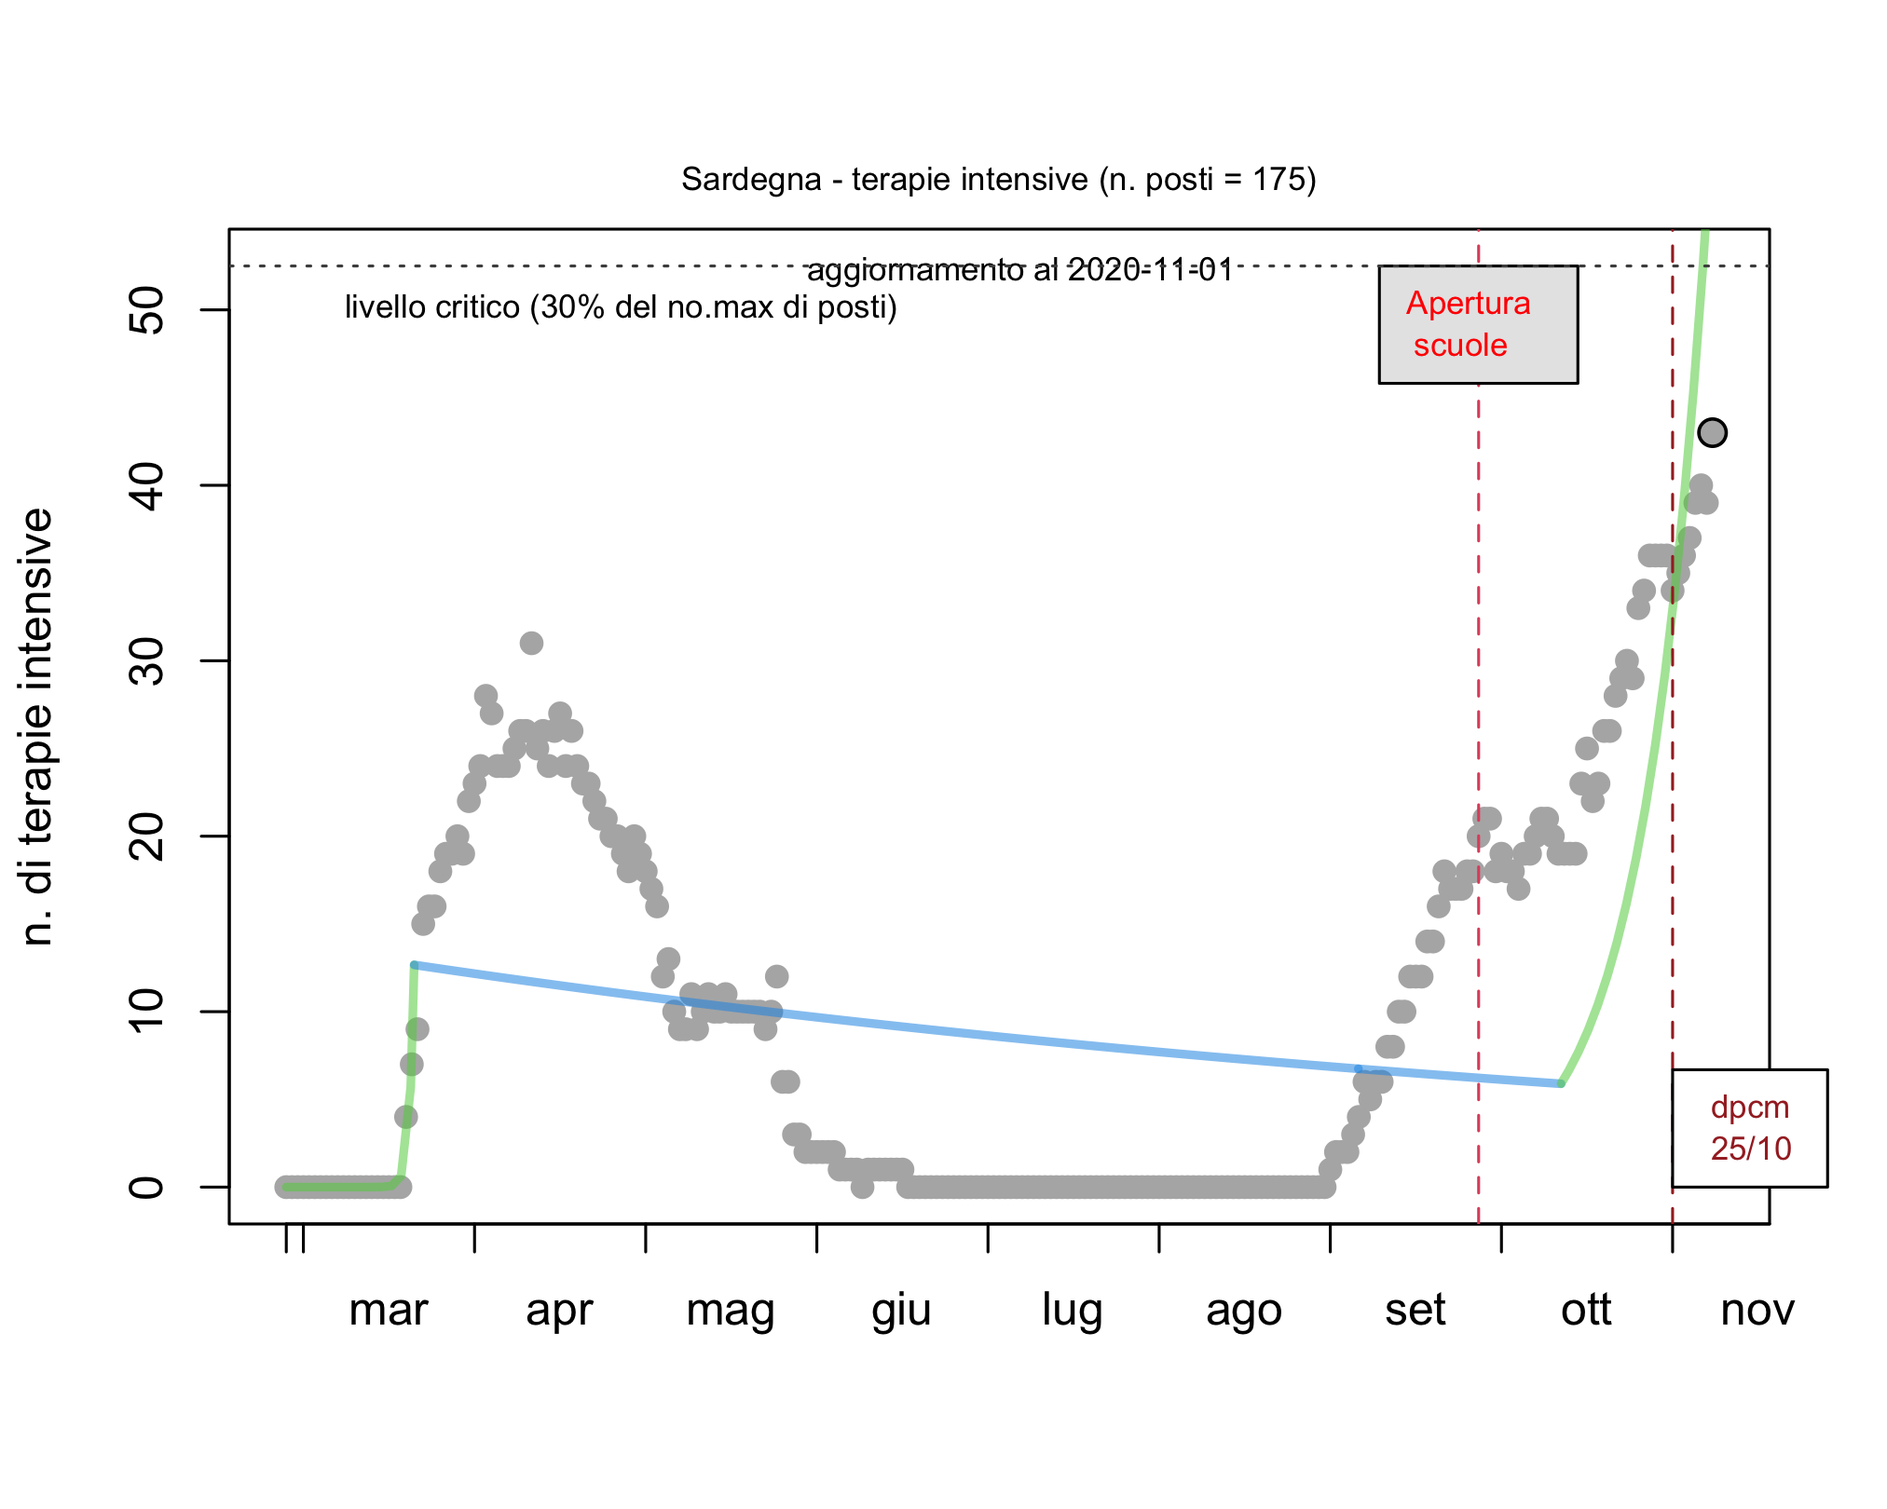
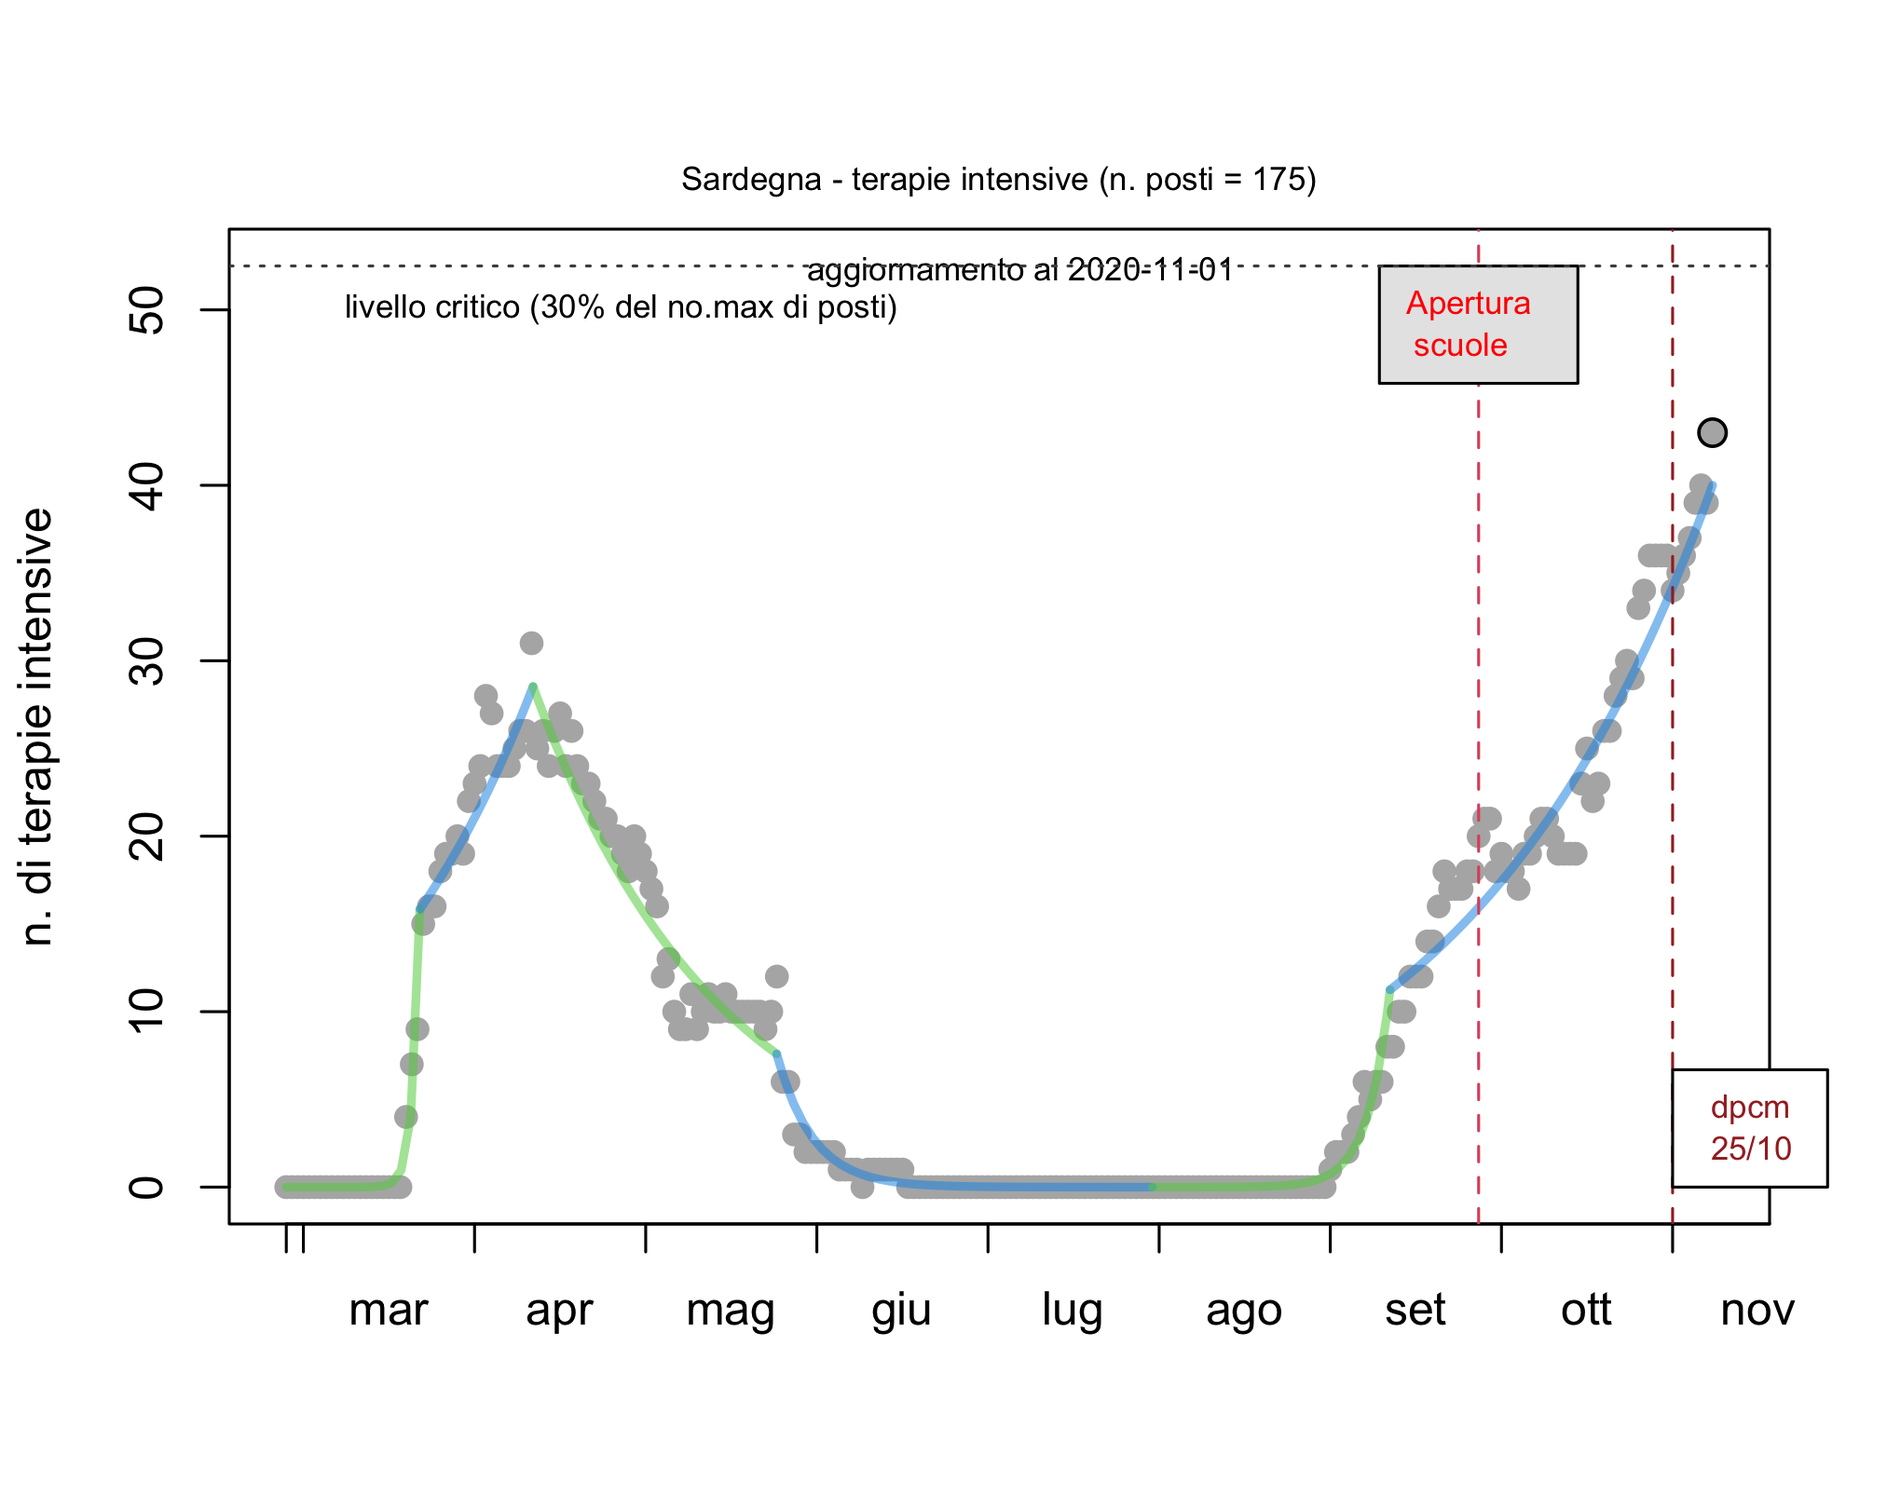
Add files via upload

diff --git a/sardegna_terapie_intensive.html b/sardegna_terapie_intensive.html
@@ -9,7 +9,10 @@
       <tr><th colspan="5" style="background-color:#11b6c2">Terapie intensive</th></tr>
       <tr><th rowspan="2" style="background-color:#11b6c2">Periodo</th><th colspan="2">Tasso % di crescita</th><th colspan="2" style="width: 35%; background-color:#11c25b" >Giorni di raddoppio (+) o dimezzamento (-)</th></tr>
       <tr><th>Stima</th><th>IC (95%)</th><th style="background-color:#11c25b">Stima</th><th style="background-color:#11c25b">IC (95%)</th></tr>
-<tr><td style="border-right: 4px solid #f0f0f0">dal 25/02 al 18/03*</td><td align='center'>269,7</td><td align='center'>[58,8; 760,9]</td><td align='center' style="border-left: 4px solid #f0f0f0">0,5</td><td align='center'>[0,3; 1,5]</td></tr>
-<tr><td style="border-right: 4px solid #f0f0f0">dal 18/03* al 05/10*</td><td align='center'>-0,4</td><td align='center'>[-0,5; -0,3]</td><td align='center' style="border-left: 4px solid #f0f0f0">-182,0</td><td align='center'>[-225,3; -152,6]</td></tr>
-<tr><td style="border-right: 4px solid #f0f0f0">dal 05/10* al 01/11</td><td align='center'>9,2</td><td align='center'>[8,6; 9,8]</td><td align='center' style="border-left: 4px solid #f0f0f0">7,9</td><td align='center'>[7,4; 8,4]</td></tr>
+<tr><td style="border-right: 4px solid #f0f0f0">dal 25/02 al 19/03*</td><td align='center'>133,9</td><td align='center'>[76,8; 209,4]</td><td align='center' style="border-left: 4px solid #f0f0f0">0,8</td><td align='center'>[0,6; 1,2]</td></tr>
+<tr><td style="border-right: 4px solid #f0f0f0">dal 19/03* al 08/04*</td><td align='center'>3,0</td><td align='center'>[1,8; 4,2]</td><td align='center' style="border-left: 4px solid #f0f0f0">23,4</td><td align='center'>[16,8; 38,5]</td></tr>
+<tr><td style="border-right: 4px solid #f0f0f0">dal 08/04* al 20/05*</td><td align='center'>-3,0</td><td align='center'>[-3,5; -2,6]</td><td align='center' style="border-left: 4px solid #f0f0f0">-22,4</td><td align='center'>[-26,7; -19,2]</td></tr>
+<tr><td style="border-right: 4px solid #f0f0f0">dal 20/05* al 25/07*</td><td align='center'>-14,6</td><td align='center'>[-16,8; -12,2]</td><td align='center' style="border-left: 4px solid #f0f0f0">-4,4</td><td align='center'>[-5,3; -3,8]</td></tr>
+<tr><td style="border-right: 4px solid #f0f0f0">dal 25/07* al 05/09*</td><td align='center'>29,5</td><td align='center'>[23,7; 35,5]</td><td align='center' style="border-left: 4px solid #f0f0f0">2,7</td><td align='center'>[2,3; 3,3]</td></tr>
+<tr><td style="border-right: 4px solid #f0f0f0">dal 05/09* al 02/11</td><td align='center'>2,3</td><td align='center'>[1,9; 2,6]</td><td align='center' style="border-left: 4px solid #f0f0f0">30,9</td><td align='center'>[26,8; 36,4]</td></tr>
 </table></body></html>

diff --git a/Lazio_terapie_intensive.html b/Lazio_terapie_intensive.html
@@ -16,5 +16,5 @@
 <tr><td style="border-right: 4px solid #f0f0f0">dal 01/05* al 21/06*</td><td align='center'>-1,9</td><td align='center'>[-2,2; -1,7]</td><td align='center' style="border-left: 4px solid #f0f0f0">-35,4</td><td align='center'>[-39,9; -31,8]</td></tr>
 <tr><td style="border-right: 4px solid #f0f0f0">dal 21/06* al 23/06*</td><td align='center'>-35,4</td><td align='center'>[-39,7; -30,8]</td><td align='center' style="border-left: 4px solid #f0f0f0">-1,6</td><td align='center'>[-1,9; -1,4]</td></tr>
 <tr><td style="border-right: 4px solid #f0f0f0">dal 23/06* al 26/08*</td><td align='center'>-1,1</td><td align='center'>[-1,5; -0,7]</td><td align='center' style="border-left: 4px solid #f0f0f0">-61,2</td><td align='center'>[-97,7; -44,6]</td></tr>
-<tr><td style="border-right: 4px solid #f0f0f0">dal 26/08* al 01/11</td><td align='center'>5,3</td><td align='center'>[5,1; 5,5]</td><td align='center' style="border-left: 4px solid #f0f0f0">13,4</td><td align='center'>[12,9; 14,0]</td></tr>
+<tr><td style="border-right: 4px solid #f0f0f0">dal 26/08* al 02/11</td><td align='center'>5,3</td><td align='center'>[5,1; 5,5]</td><td align='center' style="border-left: 4px solid #f0f0f0">13,4</td><td align='center'>[12,9; 14,0]</td></tr>
 </table></body></html>

diff --git a/Lazio_ricoverati.html b/Lazio_ricoverati.html
@@ -17,5 +17,5 @@
 <tr><td style="border-right: 4px solid #f0f0f0">dal 01/06* al 24/06*</td><td align='center'>-4,7</td><td align='center'>[-5,0; -4,5]</td><td align='center' style="border-left: 4px solid #f0f0f0">-14,3</td><td align='center'>[-14,9; -13,7]</td></tr>
 <tr><td style="border-right: 4px solid #f0f0f0">dal 24/06* al 07/08*</td><td align='center'>-0,2</td><td align='center'>[-0,3; -0,1]</td><td align='center' style="border-left: 4px solid #f0f0f0">-287,5</td><td align='center'>[-474,2; -206,3]</td></tr>
 <tr><td style="border-right: 4px solid #f0f0f0">dal 07/08* al 15/10*</td><td align='center'>2,5</td><td align='center'>[2,5; 2,6]</td><td align='center' style="border-left: 4px solid #f0f0f0">27,9</td><td align='center'>[27,3; 28,5]</td></tr>
-<tr><td style="border-right: 4px solid #f0f0f0">dal 15/10* al 01/11</td><td align='center'>4,6</td><td align='center'>[4,3; 4,9]</td><td align='center' style="border-left: 4px solid #f0f0f0">15,4</td><td align='center'>[14,5; 16,3]</td></tr>
+<tr><td style="border-right: 4px solid #f0f0f0">dal 15/10* al 02/11</td><td align='center'>4,6</td><td align='center'>[4,3; 4,9]</td><td align='center' style="border-left: 4px solid #f0f0f0">15,4</td><td align='center'>[14,5; 16,3]</td></tr>
 </table></body></html>

diff --git a/lombardia_nuovi_casi.html b/lombardia_nuovi_casi.html
@@ -14,5 +14,5 @@
 <tr><td style="border-right: 4px solid #f0f0f0">dal 20/03* al 31/07*</td><td align='center'>-2,9</td><td align='center'>[-3,0; -2,9]</td><td align='center' style="border-left: 4px solid #f0f0f0">0,86</td><td align='center'>[0,86; 0,86]</td></tr>
 <tr><td style="border-right: 4px solid #f0f0f0">dal 31/07* al 29/08*</td><td align='center'>6,6</td><td align='center'>[6,4; 6,8]</td><td align='center' style="border-left: 4px solid #f0f0f0">1,32</td><td align='center'>[1,31; 1,33]</td></tr>
 <tr><td style="border-right: 4px solid #f0f0f0">dal 29/08* al 24/09*</td><td align='center'>-1,1</td><td align='center'>[-1,4; -0,8]</td><td align='center' style="border-left: 4px solid #f0f0f0">0,95</td><td align='center'>[0,94; 0,96]</td></tr>
-<tr><td style="border-right: 4px solid #f0f0f0">dal 24/09* al 01/11</td><td align='center'>11,2</td><td align='center'>[11,1; 11,2]</td><td align='center' style="border-left: 4px solid #f0f0f0">1,56</td><td align='center'>[1,55; 1,56]</td></tr>
+<tr><td style="border-right: 4px solid #f0f0f0">dal 24/09* al 02/11</td><td align='center'>11,2</td><td align='center'>[11,1; 11,2]</td><td align='center' style="border-left: 4px solid #f0f0f0">1,56</td><td align='center'>[1,55; 1,56]</td></tr>
 </table></body></html>

diff --git a/lombardia_ricoverati.html b/lombardia_ricoverati.html
@@ -17,5 +17,5 @@
 <tr><td style="border-right: 4px solid #f0f0f0">dal 11/06* al 18/06*</td><td align='center'>-5,6</td><td align='center'>[-5,9; -5,3]</td><td align='center' style="border-left: 4px solid #f0f0f0">-12,1</td><td align='center'>[-12,8; -11,4]</td></tr>
 <tr><td style="border-right: 4px solid #f0f0f0">dal 18/06* al 07/07*</td><td align='center'>-12,5</td><td align='center'>[-12,7; -12,3]</td><td align='center' style="border-left: 4px solid #f0f0f0">-5,2</td><td align='center'>[-5,3; -5,1]</td></tr>
 <tr><td style="border-right: 4px solid #f0f0f0">dal 07/07* al 06/10*</td><td align='center'>1,0</td><td align='center'>[0,9; 1,0]</td><td align='center' style="border-left: 4px solid #f0f0f0">72,5</td><td align='center'>[69,0; 76,4]</td></tr>
-<tr><td style="border-right: 4px solid #f0f0f0">dal 06/10* al 01/11</td><td align='center'>11,2</td><td align='center'>[11,0; 11,4]</td><td align='center' style="border-left: 4px solid #f0f0f0">6,5</td><td align='center'>[6,4; 6,6]</td></tr>
+<tr><td style="border-right: 4px solid #f0f0f0">dal 06/10* al 02/11</td><td align='center'>11,2</td><td align='center'>[11,0; 11,4]</td><td align='center' style="border-left: 4px solid #f0f0f0">6,5</td><td align='center'>[6,4; 6,6]</td></tr>
 </table></body></html>

diff --git a/sicilia_terapie_intensive.html b/sicilia_terapie_intensive.html
@@ -15,5 +15,5 @@
 <tr><td style="border-right: 4px solid #f0f0f0">dal 04/04* al 13/07*</td><td align='center'>-4,0</td><td align='center'>[-4,1; -3,8]</td><td align='center' style="border-left: 4px solid #f0f0f0">-17,1</td><td align='center'>[-17,9; -16,4]</td></tr>
 <tr><td style="border-right: 4px solid #f0f0f0">dal 13/07* al 10/09*</td><td align='center'>4,5</td><td align='center'>[4,1; 4,9]</td><td align='center' style="border-left: 4px solid #f0f0f0">15,8</td><td align='center'>[14,6; 17,3]</td></tr>
 <tr><td style="border-right: 4px solid #f0f0f0">dal 10/09* al 24/09*</td><td align='center'>-1,6</td><td align='center'>[-3,7; 0,7]</td><td align='center' style="border-left: 4px solid #f0f0f0">-44,3</td><td align='center'>[107,0; -18,4]</td></tr>
-<tr><td style="border-right: 4px solid #f0f0f0">dal 24/09* al 01/11</td><td align='center'>6,4</td><td align='center'>[5,9; 6,9]</td><td align='center' style="border-left: 4px solid #f0f0f0">11,2</td><td align='center'>[10,4; 12,0]</td></tr>
+<tr><td style="border-right: 4px solid #f0f0f0">dal 24/09* al 02/11</td><td align='center'>6,4</td><td align='center'>[5,9; 6,9]</td><td align='center' style="border-left: 4px solid #f0f0f0">11,2</td><td align='center'>[10,4; 12,0]</td></tr>
 </table></body></html>

diff --git a/Piemonte_terapie_intensive.html b/Piemonte_terapie_intensive.html
@@ -16,5 +16,5 @@
 <tr><td style="border-right: 4px solid #f0f0f0">dal 11/04* al 18/05*</td><td align='center'>-3,9</td><td align='center'>[-4,0; -3,7]</td><td align='center' style="border-left: 4px solid #f0f0f0">-17,7</td><td align='center'>[-18,4; -17,0]</td></tr>
 <tr><td style="border-right: 4px solid #f0f0f0">dal 18/05* al 31/07*</td><td align='center'>-4,5</td><td align='center'>[-4,7; -4,3]</td><td align='center' style="border-left: 4px solid #f0f0f0">-15,1</td><td align='center'>[-15,7; -14,5]</td></tr>
 <tr><td style="border-right: 4px solid #f0f0f0">dal 31/07* al 02/10*</td><td align='center'>2,1</td><td align='center'>[1,7; 2,4]</td><td align='center' style="border-left: 4px solid #f0f0f0">33,8</td><td align='center'>[28,9; 40,7]</td></tr>
-<tr><td style="border-right: 4px solid #f0f0f0">dal 02/10* al 01/11</td><td align='center'>10,1</td><td align='center'>[9,4; 10,7]</td><td align='center' style="border-left: 4px solid #f0f0f0">7,2</td><td align='center'>[6,8; 7,7]</td></tr>
+<tr><td style="border-right: 4px solid #f0f0f0">dal 02/10* al 02/11</td><td align='center'>10,1</td><td align='center'>[9,4; 10,7]</td><td align='center' style="border-left: 4px solid #f0f0f0">7,2</td><td align='center'>[6,8; 7,7]</td></tr>
 </table></body></html>

diff --git a/puglia_nuovi_casi.html b/puglia_nuovi_casi.html
@@ -14,5 +14,5 @@
 <tr><td style="border-right: 4px solid #f0f0f0">dal 19/04* al 26/06*</td><td align='center'>-6,84</td><td align='center'>[-7,1; -6,6]</td><td align='center' style="border-left: 4px solid #f0f0f0">0,68</td><td align='center'>[0,66; 0,69]</td></tr>
 <tr><td style="border-right: 4px solid #f0f0f0">dal 26/06* al 04/09*</td><td align='center'>7,25</td><td align='center'>[6,9; 7,5]</td><td align='center' style="border-left: 4px solid #f0f0f0">1,36</td><td align='center'>[1,34; 1,37]</td></tr>
 <tr><td style="border-right: 4px solid #f0f0f0">dal 04/09* al 26/09*</td><td align='center'>-0,31</td><td align='center'>[-0,9; 0,3]</td><td align='center' style="border-left: 4px solid #f0f0f0">0,99</td><td align='center'>[0,96; 1,01]</td></tr>
-<tr><td style="border-right: 4px solid #f0f0f0">dal 26/09* al 01/11</td><td align='center'>6,89</td><td align='center'>[6,7; 7,1]</td><td align='center' style="border-left: 4px solid #f0f0f0">1,34</td><td align='center'>[1,33; 1,35]</td></tr>
+<tr><td style="border-right: 4px solid #f0f0f0">dal 26/09* al 02/11</td><td align='center'>6,89</td><td align='center'>[6,7; 7,1]</td><td align='center' style="border-left: 4px solid #f0f0f0">1,34</td><td align='center'>[1,33; 1,35]</td></tr>
 </table></body></html>

diff --git a/puglia_nuovi_casi_su_tamponi.html b/puglia_nuovi_casi_su_tamponi.html
@@ -15,5 +15,5 @@
 <tr><td style="border-right: 4px solid #f0f0f0">dal 27/06* al 10/08*</td><td align='center'>9,22</td><td align='center'>[8,4; 10,1]</td><td align='center' style="border-left: 4px solid #f0f0f0">1,46</td><td align='center'>[1,42; 1,50]</td></tr>
 <tr><td style="border-right: 4px solid #f0f0f0">dal 10/08* al 08/09*</td><td align='center'>3,44</td><td align='center'>[2,9; 4,0]</td><td align='center' style="border-left: 4px solid #f0f0f0">1,17</td><td align='center'>[1,14; 1,19]</td></tr>
 <tr><td style="border-right: 4px solid #f0f0f0">dal 08/09* al 24/09*</td><td align='center'>-1,34</td><td align='center'>[-2,2; -0,5]</td><td align='center' style="border-left: 4px solid #f0f0f0">0,94</td><td align='center'>[0,90; 0,98]</td></tr>
-<tr><td style="border-right: 4px solid #f0f0f0">dal 24/09* al 01/11</td><td align='center'>5,19</td><td align='center'>[5,0; 5,4]</td><td align='center' style="border-left: 4px solid #f0f0f0">1,25</td><td align='center'>[1,24; 1,26]</td></tr>
+<tr><td style="border-right: 4px solid #f0f0f0">dal 24/09* al 02/11</td><td align='center'>5,19</td><td align='center'>[5,0; 5,4]</td><td align='center' style="border-left: 4px solid #f0f0f0">1,25</td><td align='center'>[1,24; 1,26]</td></tr>
 </table></body></html>

diff --git a/sardegna_nuovi_casi.html b/sardegna_nuovi_casi.html
@@ -13,5 +13,5 @@
 <tr><td style="border-right: 4px solid #f0f0f0">dal 20/03* al 11/07*</td><td align='center'>-5,3</td><td align='center'>[-5,5; -5,0]</td><td align='center' style="border-left: 4px solid #f0f0f0">0,75</td><td align='center'>[0,74; 0,76]</td></tr>
 <tr><td style="border-right: 4px solid #f0f0f0">dal 11/07* al 24/08*</td><td align='center'>14,8</td><td align='center'>[14,1; 15,6]</td><td align='center' style="border-left: 4px solid #f0f0f0">1,76</td><td align='center'>[1,72; 1,80]</td></tr>
 <tr><td style="border-right: 4px solid #f0f0f0">dal 24/08* al 17/09*</td><td align='center'>-1,0</td><td align='center'>[-1,6; -0,3]</td><td align='center' style="border-left: 4px solid #f0f0f0">0,95</td><td align='center'>[0,92; 0,98]</td></tr>
-<tr><td style="border-right: 4px solid #f0f0f0">dal 17/09* al 01/11</td><td align='center'>4,6</td><td align='center'>[4,4; 4,8]</td><td align='center' style="border-left: 4px solid #f0f0f0">1,22</td><td align='center'>[1,21; 1,23]</td></tr>
+<tr><td style="border-right: 4px solid #f0f0f0">dal 17/09* al 02/11</td><td align='center'>4,6</td><td align='center'>[4,4; 4,8]</td><td align='center' style="border-left: 4px solid #f0f0f0">1,22</td><td align='center'>[1,21; 1,23]</td></tr>
 </table></body></html>

diff --git a/Piemonte_ricoverati.html b/Piemonte_ricoverati.html
@@ -17,5 +17,5 @@
 <tr><td style="border-right: 4px solid #f0f0f0">dal 21/05* al 23/06*</td><td align='center'>-4,5</td><td align='center'>[-4,5; -4,4]</td><td align='center' style="border-left: 4px solid #f0f0f0">-15,2</td><td align='center'>[-15,4; -14,9]</td></tr>
 <tr><td style="border-right: 4px solid #f0f0f0">dal 23/06* al 18/08*</td><td align='center'>-2,8</td><td align='center'>[-2,8; -2,7]</td><td align='center' style="border-left: 4px solid #f0f0f0">-24,8</td><td align='center'>[-25,6; -24,1]</td></tr>
 <tr><td style="border-right: 4px solid #f0f0f0">dal 18/08* al 03/10*</td><td align='center'>2,4</td><td align='center'>[2,3; 2,6]</td><td align='center' style="border-left: 4px solid #f0f0f0">29,0</td><td align='center'>[27,4; 30,8]</td></tr>
-<tr><td style="border-right: 4px solid #f0f0f0">dal 03/10* al 01/11</td><td align='center'>9,9</td><td align='center'>[9,8; 10,1]</td><td align='center' style="border-left: 4px solid #f0f0f0">7,3</td><td align='center'>[7,2; 7,5]</td></tr>
+<tr><td style="border-right: 4px solid #f0f0f0">dal 03/10* al 02/11</td><td align='center'>9,9</td><td align='center'>[9,8; 10,1]</td><td align='center' style="border-left: 4px solid #f0f0f0">7,3</td><td align='center'>[7,2; 7,5]</td></tr>
 </table></body></html>

diff --git a/Veneto_terapie_intensive.html b/Veneto_terapie_intensive.html
@@ -14,5 +14,5 @@
 <tr><td style="border-right: 4px solid #f0f0f0">dal 30/03* al 04/05*</td><td align='center'>-4,0</td><td align='center'>[-4,1; -3,8]</td><td align='center' style="border-left: 4px solid #f0f0f0">-17,2</td><td align='center'>[-18,1; -16,5]</td></tr>
 <tr><td style="border-right: 4px solid #f0f0f0">dal 04/05* al 13/06*</td><td align='center'>-11,2</td><td align='center'>[-11,6; -10,7]</td><td align='center' style="border-left: 4px solid #f0f0f0">-5,9</td><td align='center'>[-6,1; -5,6]</td></tr>
 <tr><td style="border-right: 4px solid #f0f0f0">dal 13/06* al 10/10*</td><td align='center'>2,9</td><td align='center'>[2,7; 3,1]</td><td align='center' style="border-left: 4px solid #f0f0f0">24,2</td><td align='center'>[22,7; 26,0]</td></tr>
-<tr><td style="border-right: 4px solid #f0f0f0">dal 10/10* al 01/11</td><td align='center'>7,8</td><td align='center'>[6,8; 8,7]</td><td align='center' style="border-left: 4px solid #f0f0f0">9,2</td><td align='center'>[8,3; 10,5]</td></tr>
+<tr><td style="border-right: 4px solid #f0f0f0">dal 10/10* al 02/11</td><td align='center'>7,8</td><td align='center'>[6,8; 8,7]</td><td align='center' style="border-left: 4px solid #f0f0f0">9,2</td><td align='center'>[8,3; 10,5]</td></tr>
 </table></body></html>
